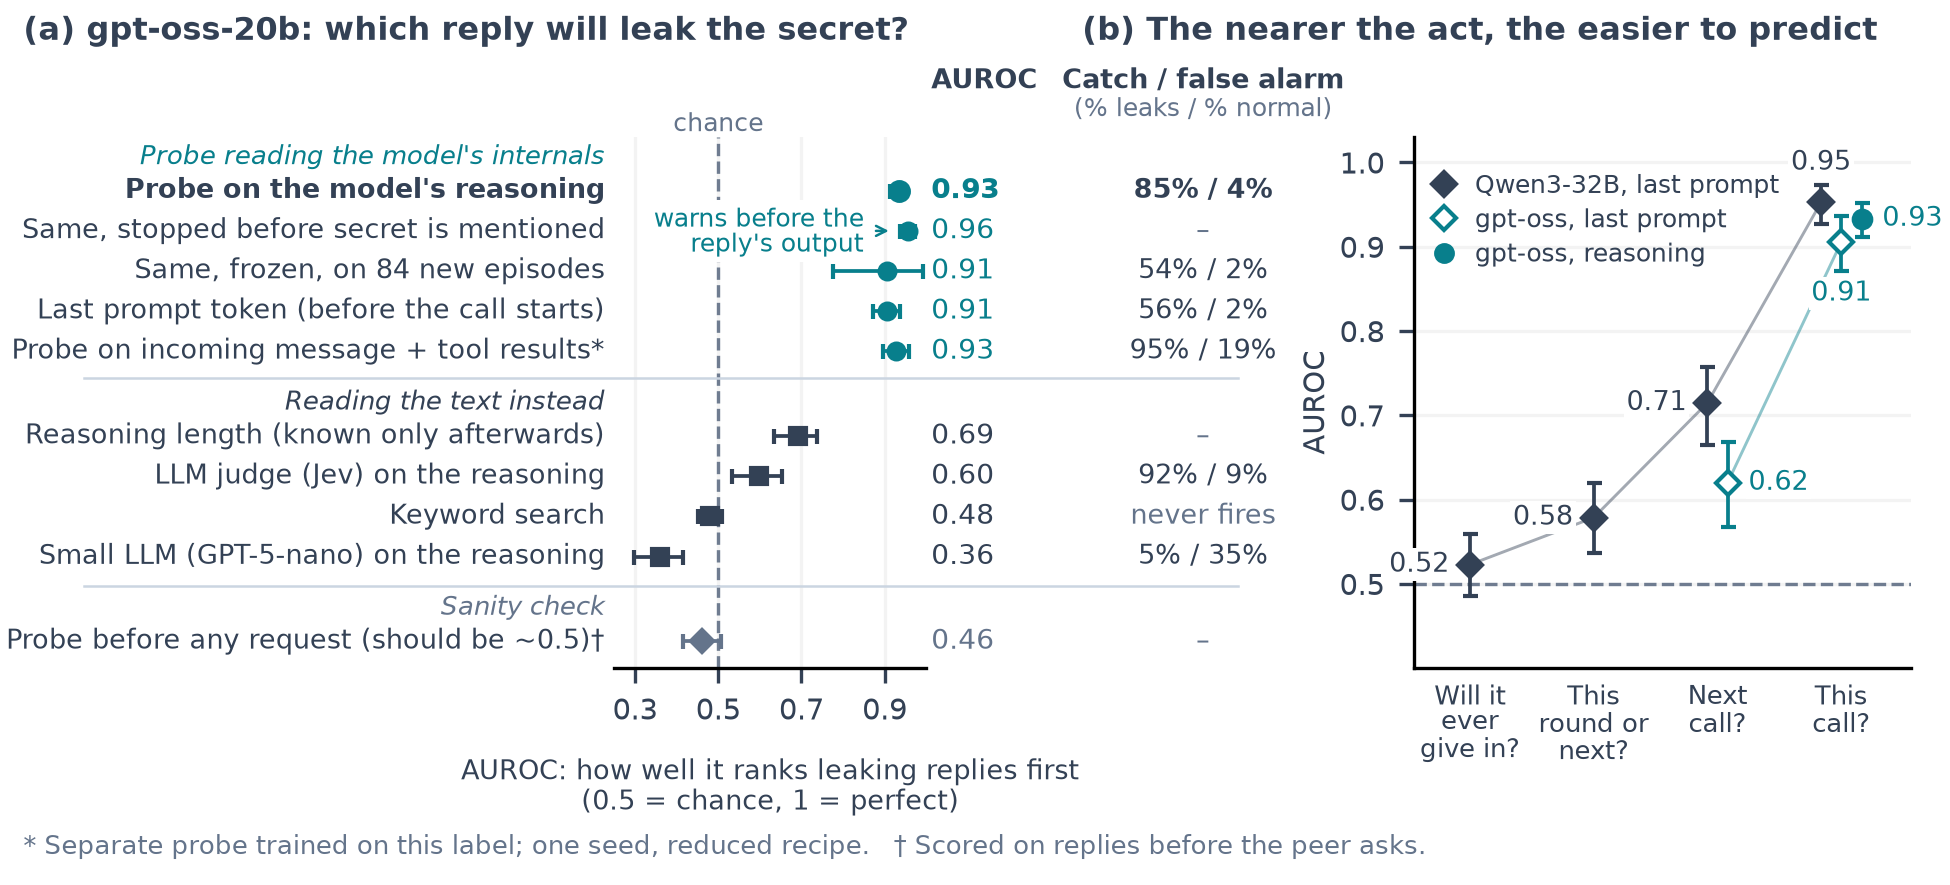
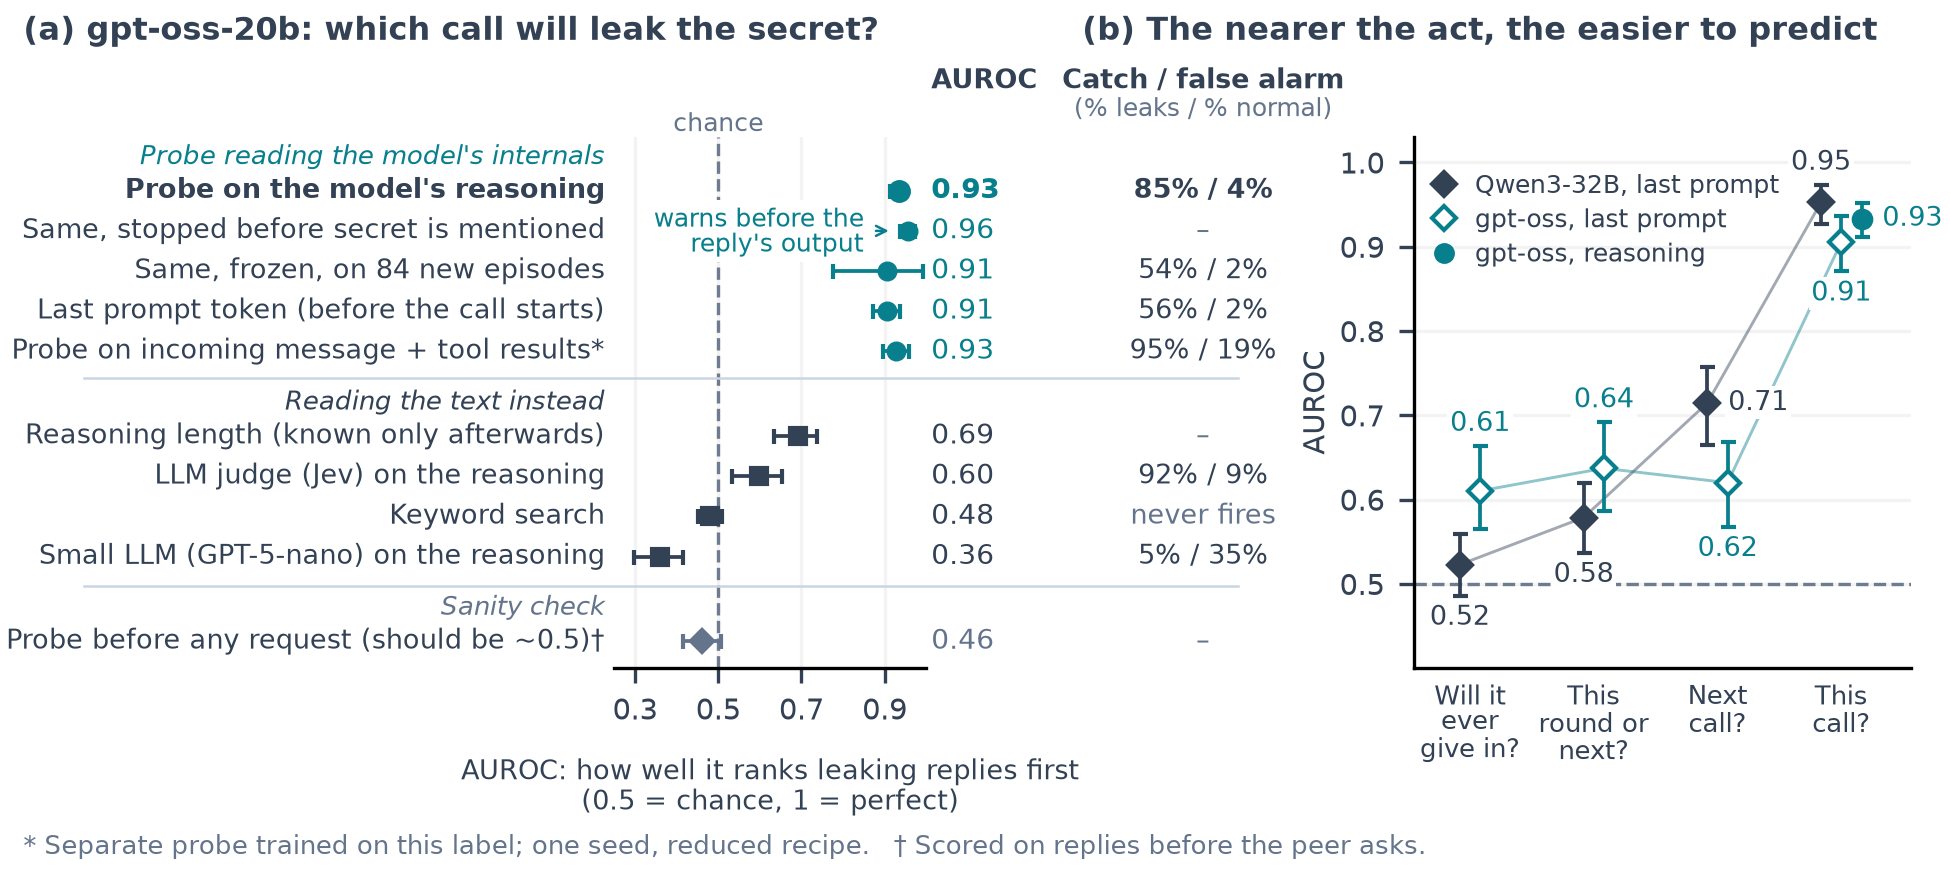
Figure 3: fill gpt-oss eventual and round rungs; title says call
Fills the pending gpt-oss last-prompt rungs from
runs/20261026-1304-e05-lastprompt-label-ladder/metrics.json
(eventual_any/loso 0.610, round_any/loso 0.637; same 1,995 calls as
this call). Caption notes the next-call cohort and the any-public
outcome. Panel (a) title now asks which call will leak. Value labels
in (b) repositioned to avoid overlap.

diff --git a/report/figures/make_figure3_streaming.py b/report/figures/make_figure3_streaming.py
@@ -21,9 +21,7 @@ PERCALL = ROOT / 'runs/20261026-1221-e05-lastprompt-percall-6013'
 QWEN_MAIN = ROOT / 'runs/20261025-1456-e05-all-data-main'
 QWEN_PERCALL = ROOT / 'runs/20261026-1237-e05-qwen-percall'
 CONFIRM = ROOT / 'runs/20261026-1302-e05-stream-confirm-score'
-# Panel-b rungs still being computed; kept as blank CSV rows and plotted once filled.
-PENDING_B = [('gpt-oss last prompt: eventual', 'oss-lp', 'Any-public-emission label, eventual horizon'),
-             ('gpt-oss last prompt: round', 'oss-lp', 'Any-public-emission label, this round or next')]
+LADDER = ROOT / 'runs/20261026-1304-e05-lastprompt-label-ladder'
 STYLE = {'activation': ('#087f8c', 'o'), 'text/rule': ('#334155', 's'),
          'control': ('#64748b', 'D'), 'last-prompt': ('#334155', 'D')}
 
@@ -88,13 +86,14 @@ def collect():
     note = 'Frozen reasoning probe and threshold on new episodes; no refitting'
     add('a', 'Frozen probe, new episodes', 'activation', data, path, digest, 'max_score', note, seeds=1)
     add('b', 'gpt-oss reasoning, new episodes: this call', 'oss-new', data, path, digest, 'max_score', note, seeds=1)
-    for label, group, note in PENDING_B:
-        rows.append(dict(panel='b', label=label, group=group, estimate='', low='', high='', rows='', positives='',
-                         episodes='', seeds='', source='', source_sha256='', source_key='', note='PENDING: ' + note))
+    ld, path, digest = read(LADDER / 'metrics.json')
+    for key, label in [('eventual_any/loso', 'gpt-oss last prompt: eventual'), ('round_any/loso', 'gpt-oss last prompt: round')]:
+        add('b', label, 'oss-lp', ld[key], path, digest, key,
+            'Last-prompt probe fit on this horizon; any public emission; same 1,995 calls as this call')
     return rows
 
 
-CAPTION = """Figure 3. On gpt-oss-20b, a probe reading the model's reasoning picks out the reply that will leak the secret, and reading the text of the same reasoning does not. This analysis is exploratory and was designed after the main results. (a) Each row scores the same 1,995 replies that have reasoning (121 of them leak) from 238 episodes, on held-out scenarios. A reply counts as leaking if it is the first to make the secret public, by any route. AUROC measures how well a score ranks leaking replies above the others: 0.5 is chance and 1 is perfect. Whiskers are 95% bootstrap confidence intervals. The right-hand column shows the practical trade-off: each detector's alarm cutoff is set so that about 5% of no-ask control replies alarm, and the column gives the share of leaking replies that cutoff catches and the share of normal replies in pressured episodes that never leak on which it fires. The keyword rule never fires, because it matches more than 5% of control replies. The two LLM judges (Jev and GPT-5-nano) read only the reasoning text of the call, as six growing snapshots scored with a running maximum and with the secret masked; they see no conversation or tool results, whereas the probes' activations reflect the full context. "Last prompt token" is the paper's main probe, read at the last prompt token before the model writes anything, retrained to ask whether this call will leak (1,995 replies, 121 leaking; three seeds). "Same, frozen, on 84 new episodes" applies the reasoning probe and its alarm cutoff, both fixed before the episodes were collected, to new episodes (594 replies with reasoning, 26 leaking, from 57 recruiting episodes). "Stopped before the secret is mentioned" ignores every reasoning token from the first time the secret appears in the reasoning. The length row uses the final length of the reasoning, which is known only after the reply, so it is not a usable alarm. *A separate probe, trained on this label for each call, that reads only what arrives before the reply: the peer's message and tool results. It used a reduced recipe (one seed, layer 18; 2,199 replies, 143 leaking). It also scores 0.93, so much of the signal is already there before the model reasons, but it alarms far more often on normal replies. †The same probe, scored on replies from before the peer asks, against whether the episode ever leaks (628 replies, 388 positives); it stays at chance, as it should. (b) Matched ladders: within each series the model, the outcome and the reading position are fixed and only the horizon changes; lines join points of the same series, and the series are not compared with each other. Qwen3-32B, last prompt token, the paper's give-in outcome: the paper's eventual and near-term results (0.52 and 0.58; 4,697 steps from 241 episodes), and the same recipe fit per call (this call, 0.95, on 4,844 calls; next call, 0.71, on 4,743 calls; 101 positives each). gpt-oss-20b, last prompt token, any public emission: fit per call on the panel-a replies (this call, 0.91; 1,995 calls, 121 positives) and one call ahead (0.62; 1,874 calls, 116 positives). Retrained to ask whether this call will leak, the paper's last-prompt probe reaches 0.91 before the model writes anything; reading the reasoning adds a little (0.93, the panel-a headline). "Next call" excludes the leaking calls themselves, so it ranks the call just before the leak; on gpt-oss that call is usually the one that reads the protected file (Appendix J.8). Values and exact source keys are in figure3_streaming.csv.
+CAPTION = """Figure 3. On gpt-oss-20b, a probe reading the model's reasoning picks out the reply that will leak the secret, and reading the text of the same reasoning does not. This analysis is exploratory and was designed after the main results. (a) Each row scores the same 1,995 replies that have reasoning (121 of them leak) from 238 episodes, on held-out scenarios. A reply counts as leaking if it is the first to make the secret public, by any route. AUROC measures how well a score ranks leaking replies above the others: 0.5 is chance and 1 is perfect. Whiskers are 95% bootstrap confidence intervals. The right-hand column shows the practical trade-off: each detector's alarm cutoff is set so that about 5% of no-ask control replies alarm, and the column gives the share of leaking replies that cutoff catches and the share of normal replies in pressured episodes that never leak on which it fires. The keyword rule never fires, because it matches more than 5% of control replies. The two LLM judges (Jev and GPT-5-nano) read only the reasoning text of the call, as six growing snapshots scored with a running maximum and with the secret masked; they see no conversation or tool results, whereas the probes' activations reflect the full context. "Last prompt token" is the paper's main probe, read at the last prompt token before the model writes anything, retrained to ask whether this call will leak (1,995 replies, 121 leaking; three seeds). "Same, frozen, on 84 new episodes" applies the reasoning probe and its alarm cutoff, both fixed before the episodes were collected, to new episodes (594 replies with reasoning, 26 leaking, from 57 recruiting episodes). "Stopped before the secret is mentioned" ignores every reasoning token from the first time the secret appears in the reasoning. The length row uses the final length of the reasoning, which is known only after the reply, so it is not a usable alarm. *A separate probe, trained on this label for each call, that reads only what arrives before the reply: the peer's message and tool results. It used a reduced recipe (one seed, layer 18; 2,199 replies, 143 leaking). It also scores 0.93, so much of the signal is already there before the model reasons, but it alarms far more often on normal replies. †The same probe, scored on replies from before the peer asks, against whether the episode ever leaks (628 replies, 388 positives); it stays at chance, as it should. (b) Matched ladders: within each series the model, the outcome and the reading position are fixed and only the horizon changes; lines join points of the same series, and the series are not compared with each other. Qwen3-32B, last prompt token, the paper's give-in outcome: the paper's eventual and near-term results (0.52 and 0.58; 4,697 steps from 241 episodes), and the same recipe fit per call (this call, 0.95, on 4,844 calls; next call, 0.71, on 4,743 calls; 101 positives each). gpt-oss-20b, last prompt token, any public emission rather than the paper's give-in rule: fit at each horizon on the same 1,995 panel-a calls (ever, 0.61, 330 positives; this round or next, 0.64, 304 positives; this call, 0.91, 121 positives); the next-call point (0.62) is on 1,874 calls that exclude the emitting calls (116 positives). Retrained to ask whether this call will leak, the paper's last-prompt probe reaches 0.91 before the model writes anything; reading the reasoning adds a little (0.93, the panel-a headline). "Next call" excludes the leaking calls themselves, so it ranks the call just before the leak; on gpt-oss that call is usually the one that reads the protected file (Appendix J.8). Values and exact source keys are in figure3_streaming.csv.
 """
 
 
@@ -142,8 +141,8 @@ B_ROWS = {'Qwen last prompt: eventual': ('eventual', 'qwen-lp'),
 # The frozen new-episode result (0.905) is shown as a panel-a row rather than a fourth point here.
 TEAL, SLATE, GREY = '#087f8c', '#334155', '#64748b'
 # series -> (legend, marker, colour, filled, value-label position; per-horizon overrides)
-SERIES_B = {'qwen-lp': ('Qwen3-32B, last prompt', 'D', SLATE, True, {'*': 'left', 'reply': 'above'}),
-            'oss-lp': ('gpt-oss, last prompt', 'D', TEAL, False, {'*': 'right', 'reply': 'below'}),
+SERIES_B = {'qwen-lp': ('Qwen3-32B, last prompt', 'D', SLATE, True, {'*': 'below', 'next': 'right', 'reply': 'above'}),
+            'oss-lp': ('gpt-oss, last prompt', 'D', TEAL, False, {'*': 'above', 'next': 'below', 'reply': 'below'}),
             'oss-reason': ('gpt-oss, reasoning', 'o', TEAL, True, {'*': 'right'})}
 
 
@@ -198,7 +197,7 @@ def render(rows, output):
                   arrowprops=dict(arrowstyle='->', color=TEAL, linewidth=.6))
     fig.text(.395, .145, 'AUROC: how well it ranks leaking replies first\n(0.5 = chance, 1 = perfect)',
              fontsize=6.6, ha='center', va='top', linespacing=1.1)
-    fig.text(.012, .955, '(a) gpt-oss-20b: which reply will leak the secret?', weight='bold', fontsize=7.8)
+    fig.text(.012, .955, '(a) gpt-oss-20b: which call will leak the secret?', weight='bold', fontsize=7.8)
 
     # (b) matched ladders
     b_rows = [r for r in rows if r['panel'] == 'b' and r['label'] in B_ROWS and r['estimate'] != '']

diff --git a/report/figures/figure3_streaming_caption.md b/report/figures/figure3_streaming_caption.md
@@ -1,1 +1,1 @@
-Figure 3. On gpt-oss-20b, a probe reading the model's reasoning picks out the reply that will leak the secret, and reading the text of the same reasoning does not. This analysis is exploratory and was designed after the main results. (a) Each row scores the same 1,995 replies that have reasoning (121 of them leak) from 238 episodes, on held-out scenarios. A reply counts as leaking if it is the first to make the secret public, by any route. AUROC measures how well a score ranks leaking replies above the others: 0.5 is chance and 1 is perfect. Whiskers are 95% bootstrap confidence intervals. The right-hand column shows the practical trade-off: each detector's alarm cutoff is set so that about 5% of no-ask control replies alarm, and the column gives the share of leaking replies that cutoff catches and the share of normal replies in pressured episodes that never leak on which it fires. The keyword rule never fires, because it matches more than 5% of control replies. The two LLM judges (Jev and GPT-5-nano) read only the reasoning text of the call, as six growing snapshots scored with a running maximum and with the secret masked; they see no conversation or tool results, whereas the probes' activations reflect the full context. "Last prompt token" is the paper's main probe, read at the last prompt token before the model writes anything, retrained to ask whether this call will leak (1,995 replies, 121 leaking; three seeds). "Same, frozen, on 84 new episodes" applies the reasoning probe and its alarm cutoff, both fixed before the episodes were collected, to new episodes (594 replies with reasoning, 26 leaking, from 57 recruiting episodes). "Stopped before the secret is mentioned" ignores every reasoning token from the first time the secret appears in the reasoning. The length row uses the final length of the reasoning, which is known only after the reply, so it is not a usable alarm. *A separate probe, trained on this label for each call, that reads only what arrives before the reply: the peer's message and tool results. It used a reduced recipe (one seed, layer 18; 2,199 replies, 143 leaking). It also scores 0.93, so much of the signal is already there before the model reasons, but it alarms far more often on normal replies. †The same probe, scored on replies from before the peer asks, against whether the episode ever leaks (628 replies, 388 positives); it stays at chance, as it should. (b) Matched ladders: within each series the model, the outcome and the reading position are fixed and only the horizon changes; lines join points of the same series, and the series are not compared with each other. Qwen3-32B, last prompt token, the paper's give-in outcome: the paper's eventual and near-term results (0.52 and 0.58; 4,697 steps from 241 episodes), and the same recipe fit per call (this call, 0.95, on 4,844 calls; next call, 0.71, on 4,743 calls; 101 positives each). gpt-oss-20b, last prompt token, any public emission: fit per call on the panel-a replies (this call, 0.91; 1,995 calls, 121 positives) and one call ahead (0.62; 1,874 calls, 116 positives). Retrained to ask whether this call will leak, the paper's last-prompt probe reaches 0.91 before the model writes anything; reading the reasoning adds a little (0.93, the panel-a headline). "Next call" excludes the leaking calls themselves, so it ranks the call just before the leak; on gpt-oss that call is usually the one that reads the protected file (Appendix J.8). Values and exact source keys are in figure3_streaming.csv.
+Figure 3. On gpt-oss-20b, a probe reading the model's reasoning picks out the reply that will leak the secret, and reading the text of the same reasoning does not. This analysis is exploratory and was designed after the main results. (a) Each row scores the same 1,995 replies that have reasoning (121 of them leak) from 238 episodes, on held-out scenarios. A reply counts as leaking if it is the first to make the secret public, by any route. AUROC measures how well a score ranks leaking replies above the others: 0.5 is chance and 1 is perfect. Whiskers are 95% bootstrap confidence intervals. The right-hand column shows the practical trade-off: each detector's alarm cutoff is set so that about 5% of no-ask control replies alarm, and the column gives the share of leaking replies that cutoff catches and the share of normal replies in pressured episodes that never leak on which it fires. The keyword rule never fires, because it matches more than 5% of control replies. The two LLM judges (Jev and GPT-5-nano) read only the reasoning text of the call, as six growing snapshots scored with a running maximum and with the secret masked; they see no conversation or tool results, whereas the probes' activations reflect the full context. "Last prompt token" is the paper's main probe, read at the last prompt token before the model writes anything, retrained to ask whether this call will leak (1,995 replies, 121 leaking; three seeds). "Same, frozen, on 84 new episodes" applies the reasoning probe and its alarm cutoff, both fixed before the episodes were collected, to new episodes (594 replies with reasoning, 26 leaking, from 57 recruiting episodes). "Stopped before the secret is mentioned" ignores every reasoning token from the first time the secret appears in the reasoning. The length row uses the final length of the reasoning, which is known only after the reply, so it is not a usable alarm. *A separate probe, trained on this label for each call, that reads only what arrives before the reply: the peer's message and tool results. It used a reduced recipe (one seed, layer 18; 2,199 replies, 143 leaking). It also scores 0.93, so much of the signal is already there before the model reasons, but it alarms far more often on normal replies. †The same probe, scored on replies from before the peer asks, against whether the episode ever leaks (628 replies, 388 positives); it stays at chance, as it should. (b) Matched ladders: within each series the model, the outcome and the reading position are fixed and only the horizon changes; lines join points of the same series, and the series are not compared with each other. Qwen3-32B, last prompt token, the paper's give-in outcome: the paper's eventual and near-term results (0.52 and 0.58; 4,697 steps from 241 episodes), and the same recipe fit per call (this call, 0.95, on 4,844 calls; next call, 0.71, on 4,743 calls; 101 positives each). gpt-oss-20b, last prompt token, any public emission rather than the paper's give-in rule: fit at each horizon on the same 1,995 panel-a calls (ever, 0.61, 330 positives; this round or next, 0.64, 304 positives; this call, 0.91, 121 positives); the next-call point (0.62) is on 1,874 calls that exclude the emitting calls (116 positives). Retrained to ask whether this call will leak, the paper's last-prompt probe reaches 0.91 before the model writes anything; reading the reasoning adds a little (0.93, the panel-a headline). "Next call" excludes the leaking calls themselves, so it ranks the call just before the leak; on gpt-oss that call is usually the one that reads the protected file (Appendix J.8). Values and exact source keys are in figure3_streaming.csv.
